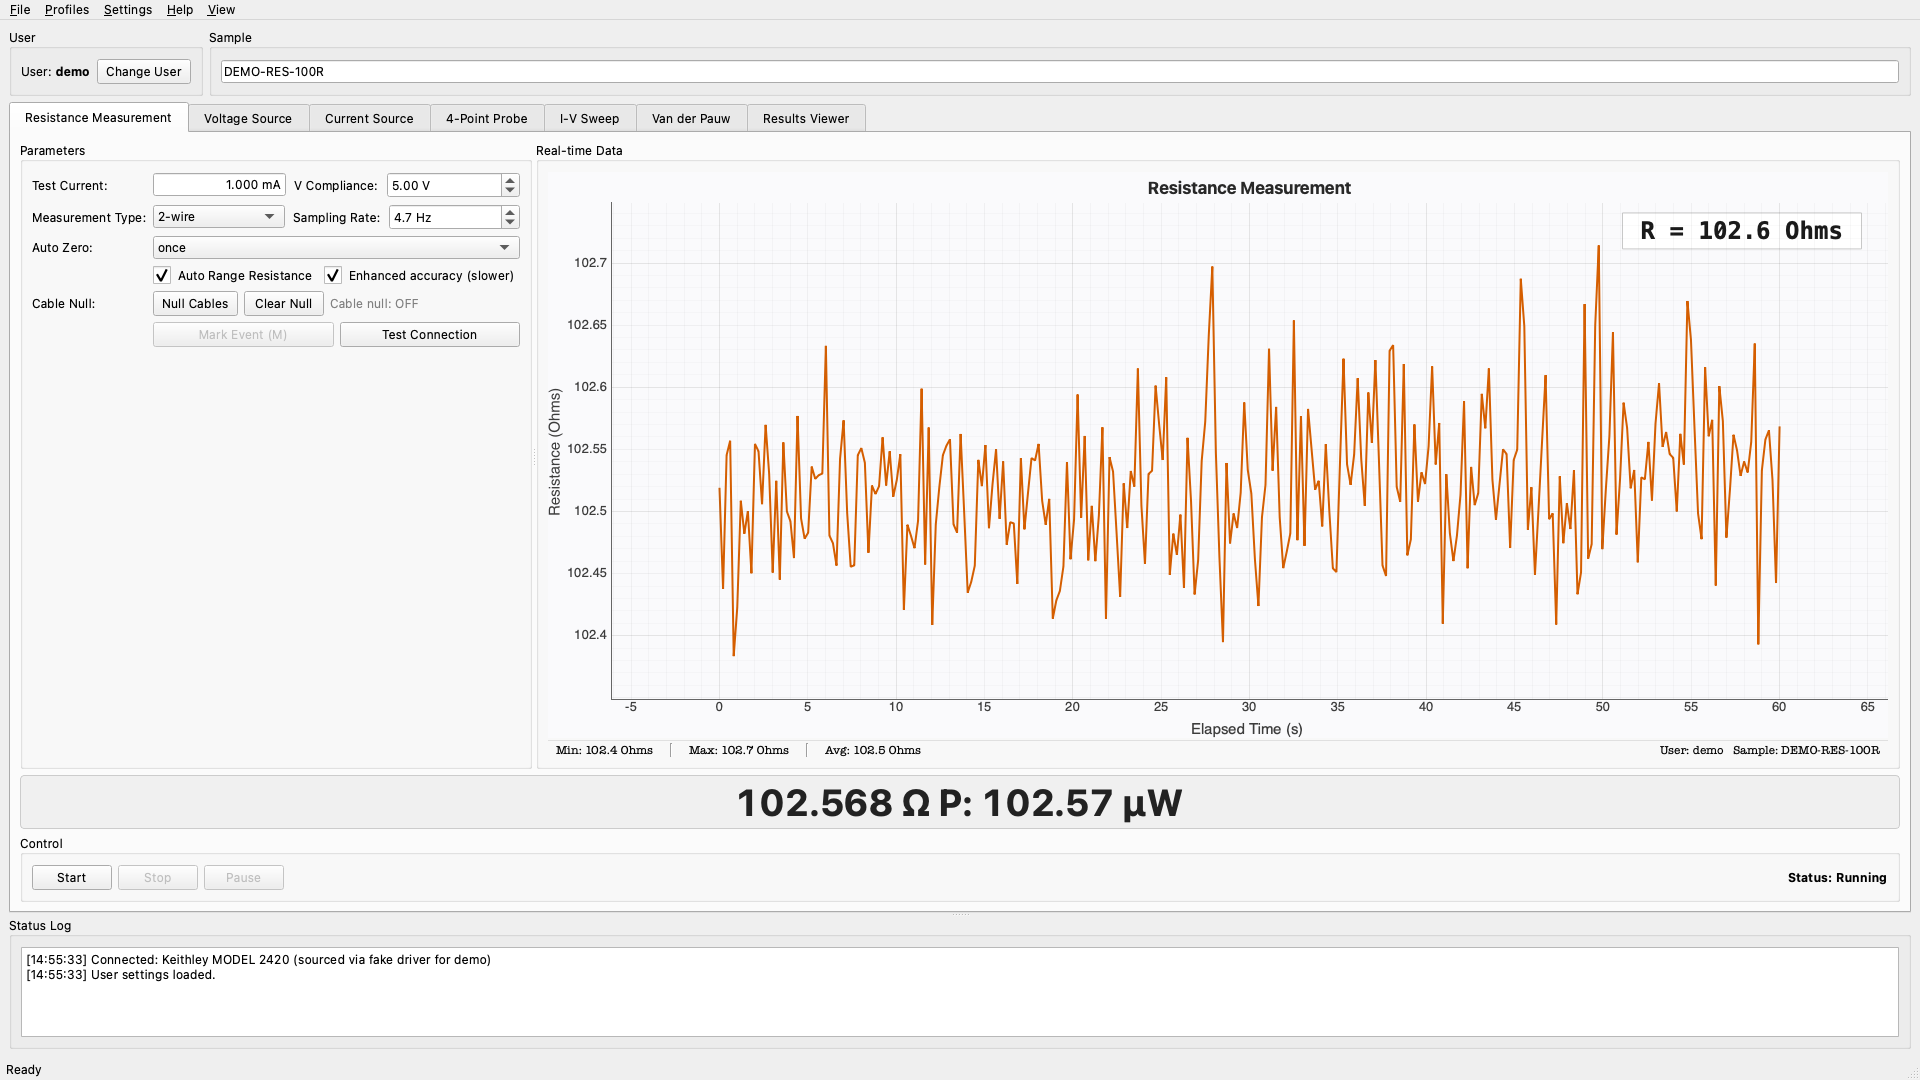
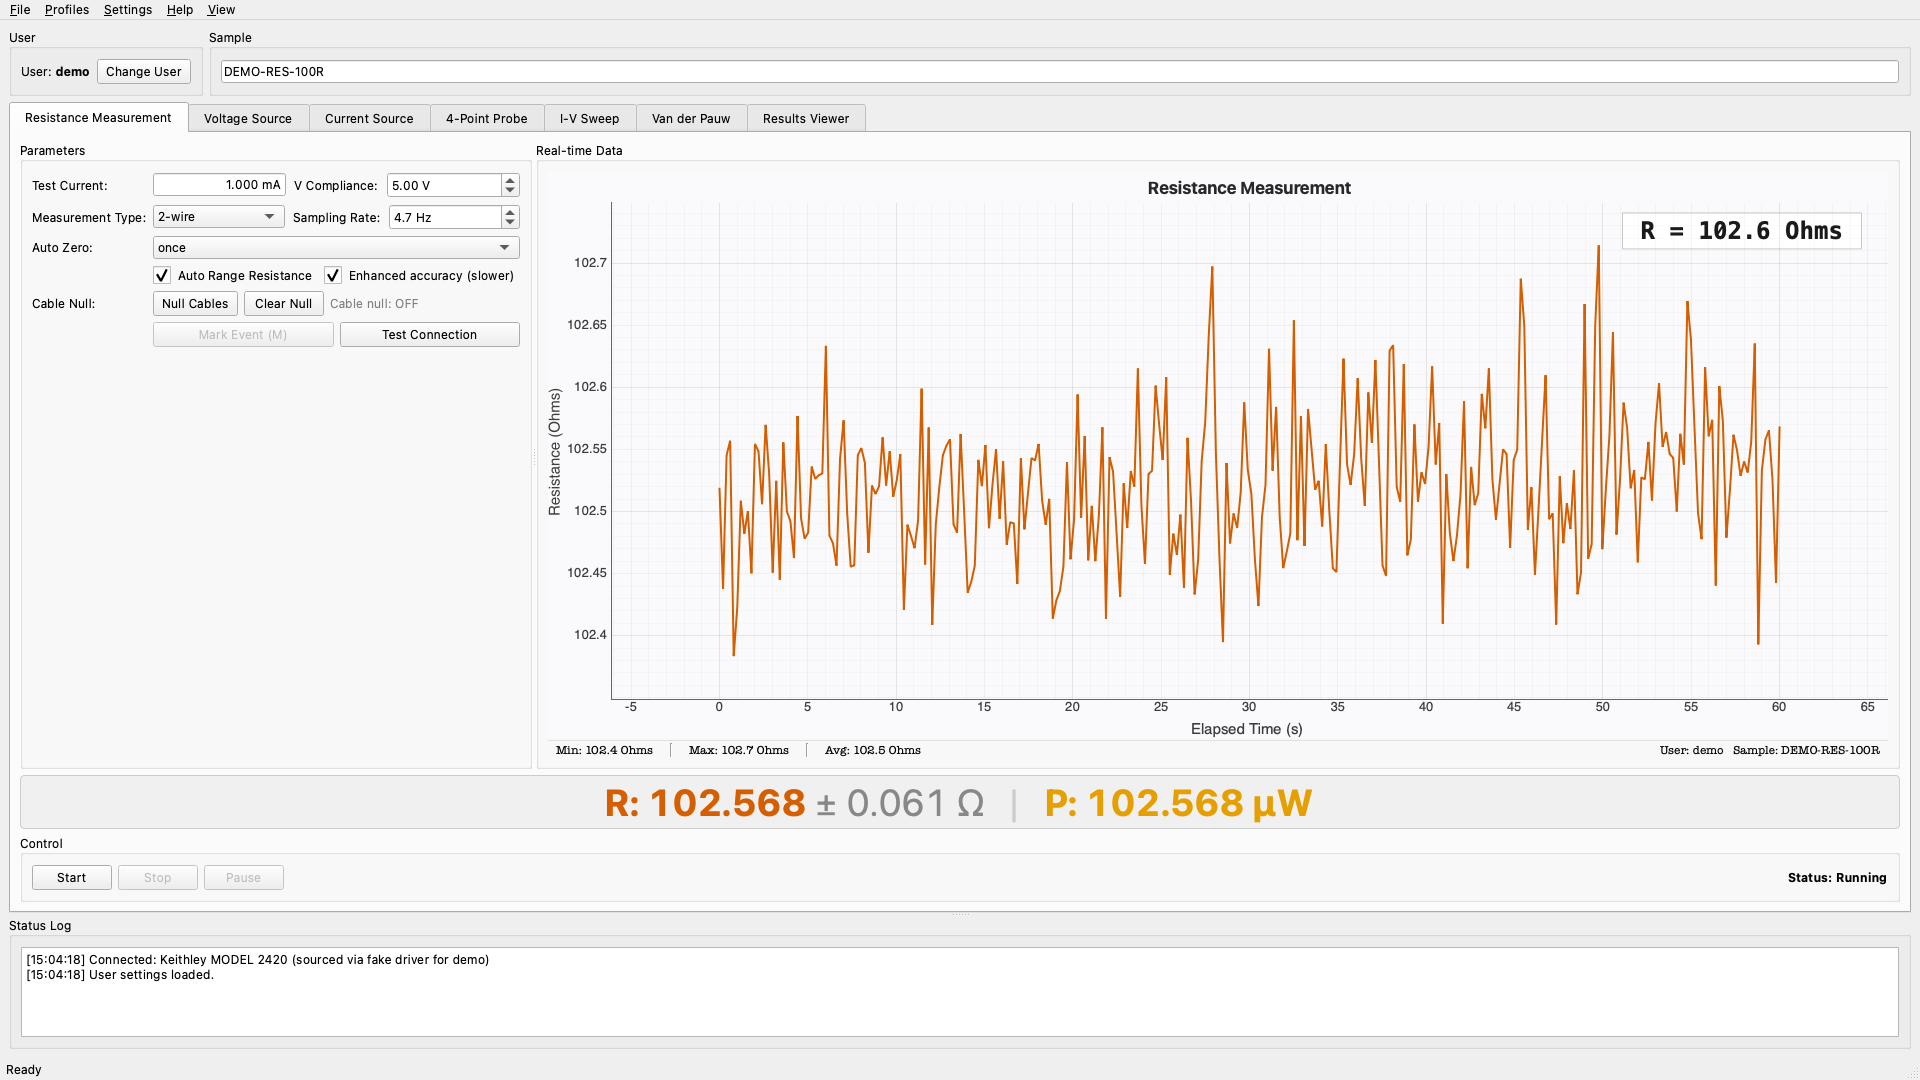
docs(screenshots): make generator honest — route every tab through format_readout_html with real accuracy.py σ
Every per-tab fill function in tools/generate_screenshots.py was
bypassing the production live-readout pipeline with a plain
setText(f-string). The result: screenshots that didn't show the
color-coded Wong-palette V/I/R/P labels or the dimmed ±σ annotations
that the actual GUI has rendered since v1.10.0. The 4PP screenshot
was worst — the manually-typed Rs/ρ/σ/V/I labels duplicated the
"Current Spot Stats" panel and didn't reflect what the real GUI
puts in that widget.

Fixes by tab:
- fill_resistance: compute σ_R via resistance_uncertainty (respects
  the offset-comp / Enhanced R checkbox state), then format_readout_html
  for R+P joined with the production divider.
- fill_voltage_source: σ_V from voltage_source_uncertainty (source
  side), σ_I from current_uncertainty (measure side), σ_R propagated.
- fill_current_source: mirror of source_v — σ_I from current_source_unc,
  σ_V from voltage_unc, σ_R propagated.
- fill_four_point: switch from misleading Rs/ρ/σ/V/I labels to the V/I/R/P
  the actual _update_fpp_live_readout writes. Synthesize a single reading
  at the spot mean; σ_V / σ_I from the measure-side accuracy specs.

Each fill function comments which production method it mirrors so
future drift is auditable. Regenerated all five PNGs.

Changed region(s): [[0.3125, 0.7333, 0.6875, 0.7639], [0.0, 0.8861, 0.25, 0.9167]]

diff --git a/tools/generate_screenshots.py b/tools/generate_screenshots.py
@@ -27,6 +27,17 @@ from PySide6.QtCore import Qt  # noqa: E402
 from PySide6.QtWidgets import QApplication  # noqa: E402
 
 from resistamet_gui.ui.main_window import ResistanceMeterApp  # noqa: E402
+from resistamet_gui.ui.widgets import (  # noqa: E402
+    format_readout_html,
+    precision_for_nplc,
+)
+from resistamet_gui.accuracy import (  # noqa: E402
+    current_source_uncertainty,
+    current_uncertainty,
+    resistance_uncertainty,
+    voltage_source_uncertainty,
+    voltage_uncertainty,
+)
 
 
 DEMO_USER = "demo"
@@ -86,11 +97,28 @@ def fill_resistance(win):
         win.current_user, win.sample_input.text(),
     )
 
+    # Mirror production resistance live-readout (main_window.py:2354):
+    # same uncertainty source (resistance_uncertainty with enhanced flag
+    # from the offset-comp checkbox) and same format_readout_html chain
+    # so the screenshot is a faithful render of what the user sees.
     i_test = float(win.tab_resistance.res_test_current.value())
-    p = abs(i_test * i_test * r[-1])
-    win.tab_resistance.live_readout.setText(
-        f"{r[-1]:.3f} Ω   P: {p*1e6:.2f} µW"
+    r_last = float(r[-1])
+    enhanced = bool(win.tab_resistance.res_offset_comp.isChecked())
+    sigma_r = resistance_uncertainty(
+        voltage=i_test * r_last,
+        current=i_test,
+        nplc=1.0,
+        enhanced=enhanced,
     )
+    fp = precision_for_nplc(1.0)
+    parts = [format_readout_html(
+        'R', r_last, sigma_r, 'Ω', fallback_precision=fp)]
+    if i_test != 0:
+        p = abs(i_test * i_test * r_last)
+        parts.append(format_readout_html(
+            'P', p, float('nan'), 'W', fallback_precision=fp))
+    win.tab_resistance.live_readout.setText(
+        win._READOUT_DIVIDER.join(parts))
     win.tab_resistance.status_label.setText("Status: Running")
 
 
@@ -111,11 +139,24 @@ def fill_voltage_source(win):
         timestamps, values, comp, stats,
         win.current_user, win.sample_input.text(),
     )
+    # Mirror production source_v live-readout (main_window.py:2374): V is
+    # sourced (voltage_source_uncertainty), I is measured (current_uncertainty),
+    # R is propagated (resistance_uncertainty), P has no propagated σ.
     last_i = float(i[-1])
+    sigma_v = voltage_source_uncertainty(v)
+    sigma_i = current_uncertainty(last_i, nplc=1.0)
+    sigma_r = resistance_uncertainty(v, last_i, nplc=1.0)
+    fp = precision_for_nplc(1.0)
+    parts = [
+        format_readout_html('V', v, sigma_v, 'V', fallback_precision=fp),
+        format_readout_html('I', last_i, sigma_i, 'A', fallback_precision=fp),
+        format_readout_html(
+            'R', v / last_i, sigma_r, 'Ω', fallback_precision=fp),
+        format_readout_html(
+            'P', abs(v * last_i), float('nan'), 'W', fallback_precision=fp),
+    ]
     win.tab_voltage_source.live_readout.setText(
-        f"V: 1.000 V   I: {last_i*1000:.3f} mA   "
-        f"R: {v/last_i:.2f} Ω   P: {abs(v*last_i)*1000:.2f} mW"
-    )
+        win._READOUT_DIVIDER.join(parts))
     win.tab_voltage_source.status_label.setText("Status: Running")
 
 
@@ -136,11 +177,24 @@ def fill_current_source(win):
         timestamps, values, comp, stats,
         win.current_user, win.sample_input.text(),
     )
+    # Mirror production source_i live-readout (main_window.py:2374): I is
+    # sourced (current_source_uncertainty), V is measured (voltage_uncertainty),
+    # R is propagated, P has no propagated σ.
     last_v = float(v[-1])
+    sigma_v = voltage_uncertainty(last_v, nplc=1.0)
+    sigma_i = current_source_uncertainty(i)
+    sigma_r = resistance_uncertainty(last_v, i, nplc=1.0)
+    fp = precision_for_nplc(1.0)
+    parts = [
+        format_readout_html('V', last_v, sigma_v, 'V', fallback_precision=fp),
+        format_readout_html('I', i, sigma_i, 'A', fallback_precision=fp),
+        format_readout_html(
+            'R', last_v / i, sigma_r, 'Ω', fallback_precision=fp),
+        format_readout_html(
+            'P', abs(last_v * i), float('nan'), 'W', fallback_precision=fp),
+    ]
     win.tab_current_source.live_readout.setText(
-        f"V: {last_v*1000:.3f} mV   I: 1.000 mA   "
-        f"R: {last_v/i:.2f} Ω   P: {abs(last_v*i)*1e6:.2f} µW"
-    )
+        win._READOUT_DIVIDER.join(parts))
     win.tab_current_source.status_label.setText("Status: Running")
 
 
@@ -176,9 +230,27 @@ def fill_four_point(win):
     w.fpp_sigma_label.setText(
         f"{sigma_mean:.3e} ± {sigma_std:.2e} ({rsd:.2f}%)"
     )
-    w.live_readout.setText(
-        f"Rs: {mean:.2f} Ω/□   ρ: {rho_mean:.2e} Ω·cm   "
-        f"σ: {sigma_mean:.0f} S/cm   V/I: {mean/k:.3f} Ω"
+    # Mirror production 4PP per-reading live-readout (main_window.py:2460).
+    # The real GUI shows V/I/R/P for the *last reading* — the per-spot
+    # derived Rs/ρ/σ already live in the "Current Spot Stats" panel on
+    # the right side of this same screenshot. Synthesize a single reading
+    # from the spot mean: source current I, measured V = I·Rs/k.
+    src_i = float(w.fpp_current.value())
+    v_per_reading = src_i * mean / k  # invert Rs = k · V/I
+    sigma_v = voltage_uncertainty(v_per_reading, nplc=1.0)
+    sigma_i = current_uncertainty(src_i, nplc=1.0)
+    parts = [
+        format_readout_html('V', v_per_reading, sigma_v, 'V'),
+        format_readout_html('I', src_i, sigma_i, 'A'),
+        format_readout_html(
+            'R', v_per_reading / src_i, float('nan'), 'Ω'),
+        format_readout_html(
+            'P', abs(v_per_reading * src_i), float('nan'), 'W'),
+    ]
+    w.live_readout.setText(win._READOUT_DIVIDER.join(parts))
+    w.live_readout.setStyleSheet(
+        "color: #222; background: #f0f0f0; border: 1px solid #ccc; "
+        "border-radius: 4px; padding: 4px;"
     )
     w.status_label.setText("Status: Running")
 
